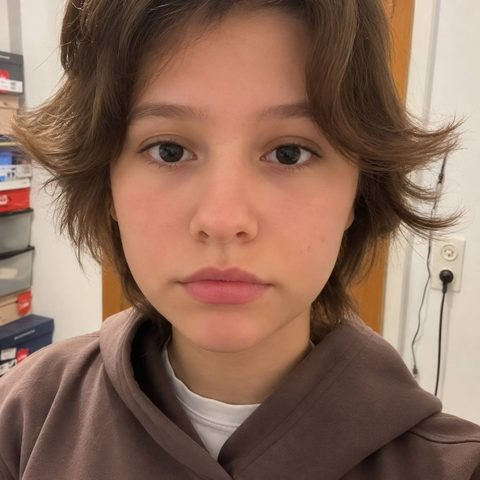
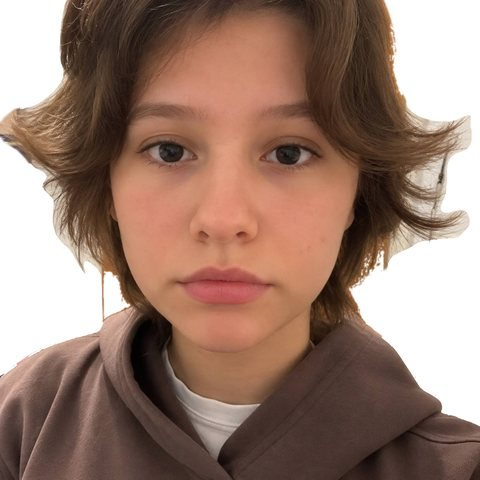
Team: Sofiia photo on white background

Changed region(s): [[0.7188, 0.0, 1.0, 0.9062], [0.0, 0.2812, 0.2812, 0.7812], [0.0, 0.0, 0.1562, 0.25]]

diff --git a/index.html b/index.html
@@ -22,7 +22,7 @@
   <script type="application/ld+json">{"@context": "https://schema.org", "@type": "EntertainmentBusiness", "name": "Happy Team", "description": "Ein Team aus vier Animateuren: Kinderfeste in der Stadt und im Kanton Zürich auf Ukrainisch und Deutsch.", "url": "https://anima-shark.github.io/", "image": "https://anima-shark.github.io/og-image.png", "email": "sophiaprytula@gmail.com", "telephone": "+41764929764", "areaServed": [{"@type": "City", "name": "Zürich"}, {"@type": "AdministrativeArea", "name": "Kanton Zürich"}], "availableLanguage": ["uk", "de"], "priceRange": "CHF 50–60 pro Stunde und Animateur", "sameAs": ["https://www.instagram.com/anima_teams/", "https://t.me/gingzuh"]}</script>
   <link rel="icon" type="image/svg+xml" href="logo.svg">
   <script>document.documentElement.classList.add("i18n-pending");setTimeout(function(){document.documentElement.classList.remove("i18n-pending")},2500)</script>
-  <link rel="stylesheet" href="style.css?v=20261068">
+  <link rel="stylesheet" href="style.css?v=20261069">
 </head>
 <body>
   <header class="header">
@@ -224,8 +224,8 @@
     <svg viewBox="0 0 24 24" width="30" height="30" aria-hidden="true"><path fill="currentColor" d="M17.472 14.382c-.297-.149-1.758-.867-2.03-.967-.273-.099-.471-.148-.67.15-.197.297-.767.966-.94 1.164-.173.199-.347.223-.644.075-.297-.15-1.255-.463-2.39-1.475-.883-.788-1.48-1.761-1.653-2.059-.173-.297-.018-.458.13-.606.134-.133.298-.347.446-.52.149-.174.198-.298.298-.497.099-.198.05-.371-.025-.52-.075-.149-.669-1.612-.916-2.207-.242-.579-.487-.5-.669-.51-.173-.008-.371-.01-.57-.01-.198 0-.52.074-.792.372-.272.297-1.04 1.016-1.04 2.479 0 1.462 1.065 2.875 1.213 3.074.149.198 2.096 3.2 5.077 4.487.709.306 1.262.489 1.694.625.712.227 1.36.195 1.871.118.571-.085 1.758-.719 2.006-1.413.248-.694.248-1.289.173-1.413-.074-.124-.272-.198-.57-.347m-5.421 7.403h-.004a9.87 9.87 0 01-5.031-1.378l-.361-.214-3.741.982.998-3.648-.235-.374a9.86 9.86 0 01-1.51-5.26c.001-5.45 4.436-9.884 9.888-9.884 2.64 0 5.122 1.03 6.988 2.898a9.825 9.825 0 012.893 6.994c-.003 5.45-4.437 9.884-9.885 9.884m8.413-18.297A11.815 11.815 0 0012.05 0C5.495 0 .16 5.335.157 11.892c0 2.096.547 4.142 1.588 5.945L.057 24l6.305-1.654a11.882 11.882 0 005.683 1.448h.005c6.554 0 11.89-5.335 11.893-11.893a11.821 11.821 0 00-3.48-8.413Z"/></svg>
   </a>
 
-  <script src="i18n.js?v=20261068"></script>
-  <script src="script.js?v=20261068"></script>
-  <script src="calc.js?v=20261068"></script>
+  <script src="i18n.js?v=20261069"></script>
+  <script src="script.js?v=20261069"></script>
+  <script src="calc.js?v=20261069"></script>
 </body>
 </html>

diff --git a/theme-superheroes.html b/theme-superheroes.html
@@ -20,7 +20,7 @@
   <link rel="alternate" hreflang="x-default" href="https://anima-shark.github.io/theme-superheroes.html">
   <link rel="icon" type="image/svg+xml" href="logo.svg">
   <script>document.documentElement.classList.add("i18n-pending");setTimeout(function(){document.documentElement.classList.remove("i18n-pending")},2500)</script>
-  <link rel="stylesheet" href="style.css?v=20261068">
+  <link rel="stylesheet" href="style.css?v=20261069">
 </head>
 <body>
   <header class="header">
@@ -86,7 +86,7 @@
     <p>© <span id="year"></span> <span data-i18n="footer.name">Happy Team</span></p>
   </footer>
 
-  <script src="i18n.js?v=20261068"></script>
-  <script src="page.js?v=20261068"></script>
+  <script src="i18n.js?v=20261069"></script>
+  <script src="page.js?v=20261069"></script>
 </body>
 </html>

diff --git a/theme-dinosaurs.html b/theme-dinosaurs.html
@@ -20,7 +20,7 @@
   <link rel="alternate" hreflang="x-default" href="https://anima-shark.github.io/theme-dinosaurs.html">
   <link rel="icon" type="image/svg+xml" href="logo.svg">
   <script>document.documentElement.classList.add("i18n-pending");setTimeout(function(){document.documentElement.classList.remove("i18n-pending")},2500)</script>
-  <link rel="stylesheet" href="style.css?v=20261068">
+  <link rel="stylesheet" href="style.css?v=20261069">
 </head>
 <body>
   <header class="header">
@@ -86,7 +86,7 @@
     <p>© <span id="year"></span> <span data-i18n="footer.name">Happy Team</span></p>
   </footer>
 
-  <script src="i18n.js?v=20261068"></script>
-  <script src="page.js?v=20261068"></script>
+  <script src="i18n.js?v=20261069"></script>
+  <script src="page.js?v=20261069"></script>
 </body>
 </html>

diff --git a/theme-minecraft.html b/theme-minecraft.html
@@ -20,7 +20,7 @@
   <link rel="alternate" hreflang="x-default" href="https://anima-shark.github.io/theme-minecraft.html">
   <link rel="icon" type="image/svg+xml" href="logo.svg">
   <script>document.documentElement.classList.add("i18n-pending");setTimeout(function(){document.documentElement.classList.remove("i18n-pending")},2500)</script>
-  <link rel="stylesheet" href="style.css?v=20261068">
+  <link rel="stylesheet" href="style.css?v=20261069">
 </head>
 <body>
   <header class="header">
@@ -87,7 +87,7 @@
     <p>© <span id="year"></span> <span data-i18n="footer.name">Happy Team</span></p>
   </footer>
 
-  <script src="i18n.js?v=20261068"></script>
-  <script src="page.js?v=20261068"></script>
+  <script src="i18n.js?v=20261069"></script>
+  <script src="page.js?v=20261069"></script>
 </body>
 </html>

diff --git a/theme-pirates.html b/theme-pirates.html
@@ -20,7 +20,7 @@
   <link rel="alternate" hreflang="x-default" href="https://anima-shark.github.io/theme-pirates.html">
   <link rel="icon" type="image/svg+xml" href="logo.svg">
   <script>document.documentElement.classList.add("i18n-pending");setTimeout(function(){document.documentElement.classList.remove("i18n-pending")},2500)</script>
-  <link rel="stylesheet" href="style.css?v=20261068">
+  <link rel="stylesheet" href="style.css?v=20261069">
 </head>
 <body>
   <header class="header">
@@ -86,7 +86,7 @@
     <p>© <span id="year"></span> <span data-i18n="footer.name">Happy Team</span></p>
   </footer>
 
-  <script src="i18n.js?v=20261068"></script>
-  <script src="page.js?v=20261068"></script>
+  <script src="i18n.js?v=20261069"></script>
+  <script src="page.js?v=20261069"></script>
 </body>
 </html>

diff --git a/theme-roblox.html b/theme-roblox.html
@@ -20,7 +20,7 @@
   <link rel="alternate" hreflang="x-default" href="https://anima-shark.github.io/theme-roblox.html">
   <link rel="icon" type="image/svg+xml" href="logo.svg">
   <script>document.documentElement.classList.add("i18n-pending");setTimeout(function(){document.documentElement.classList.remove("i18n-pending")},2500)</script>
-  <link rel="stylesheet" href="style.css?v=20261068">
+  <link rel="stylesheet" href="style.css?v=20261069">
 </head>
 <body>
   <header class="header">
@@ -87,7 +87,7 @@
     <p>© <span id="year"></span> <span data-i18n="footer.name">Happy Team</span></p>
   </footer>
 
-  <script src="i18n.js?v=20261068"></script>
-  <script src="page.js?v=20261068"></script>
+  <script src="i18n.js?v=20261069"></script>
+  <script src="page.js?v=20261069"></script>
 </body>
 </html>

diff --git a/theme-shark.html b/theme-shark.html
@@ -20,7 +20,7 @@
   <link rel="alternate" hreflang="x-default" href="https://anima-shark.github.io/theme-shark.html">
   <link rel="icon" type="image/svg+xml" href="logo.svg">
   <script>document.documentElement.classList.add("i18n-pending");setTimeout(function(){document.documentElement.classList.remove("i18n-pending")},2500)</script>
-  <link rel="stylesheet" href="style.css?v=20261068">
+  <link rel="stylesheet" href="style.css?v=20261069">
 </head>
 <body>
   <header class="header">
@@ -86,7 +86,7 @@
     <p>© <span id="year"></span> <span data-i18n="footer.name">Happy Team</span></p>
   </footer>
 
-  <script src="i18n.js?v=20261068"></script>
-  <script src="page.js?v=20261068"></script>
+  <script src="i18n.js?v=20261069"></script>
+  <script src="page.js?v=20261069"></script>
 </body>
 </html>

diff --git a/game.html b/game.html
@@ -10,7 +10,7 @@
   <meta property="og:type" content="website">
   <link rel="icon" type="image/svg+xml" href="logo.svg">
   <script>document.documentElement.classList.add("i18n-pending");setTimeout(function(){document.documentElement.classList.remove("i18n-pending")},2500)</script>
-  <link rel="stylesheet" href="style.css?v=20261068">
+  <link rel="stylesheet" href="style.css?v=20261069">
 </head>
 <body>
   <header class="header">
@@ -58,7 +58,7 @@
     <p>© <span id="year"></span> <span data-i18n="footer.name">Happy Team</span></p>
   </footer>
 
-  <script src="i18n.js?v=20261068"></script>
-  <script src="game.js?v=20261068"></script>
+  <script src="i18n.js?v=20261069"></script>
+  <script src="game.js?v=20261069"></script>
 </body>
 </html>
